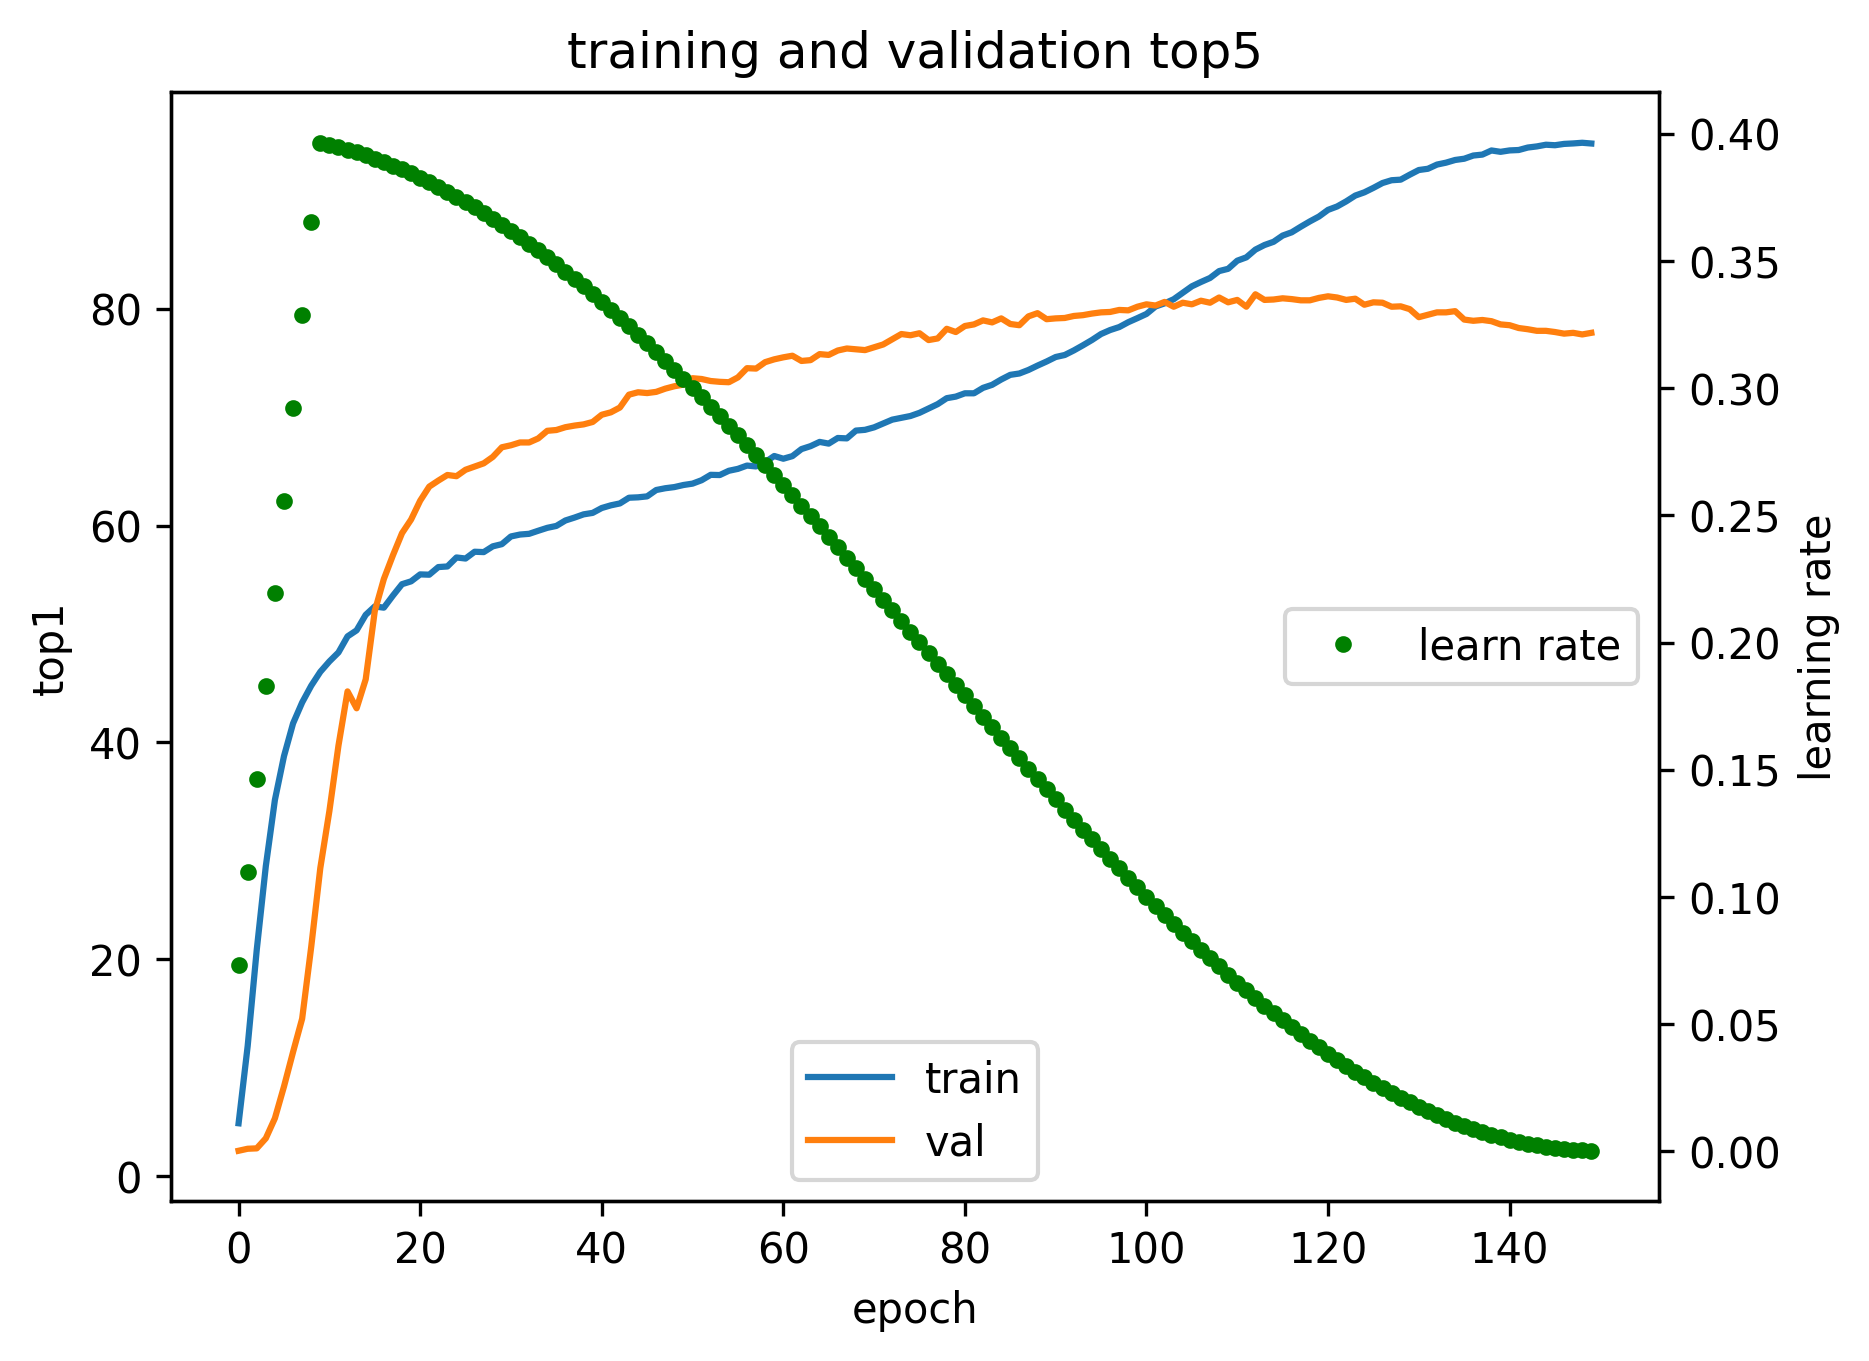
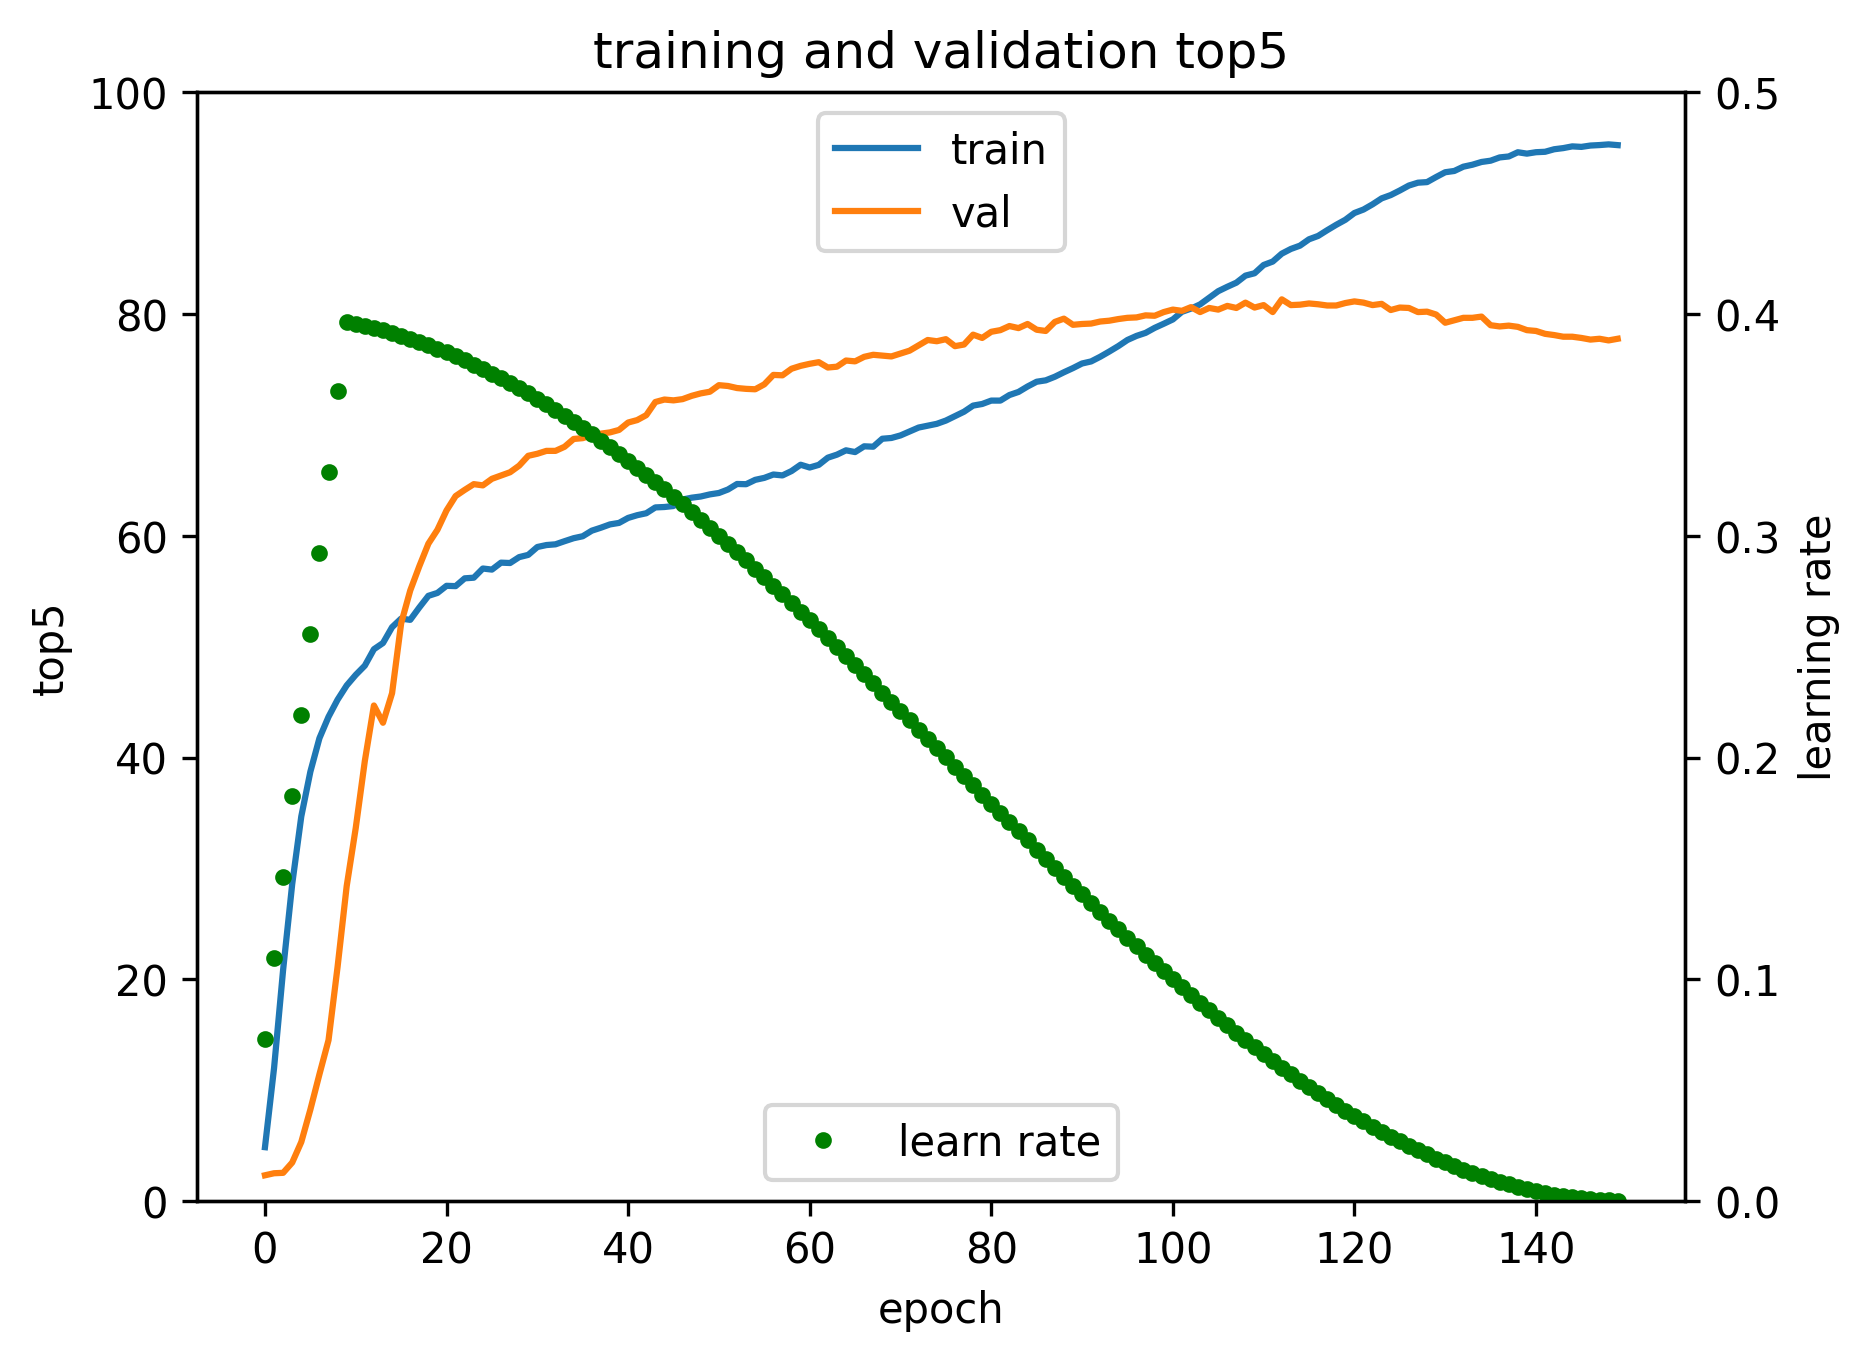
updated launch, best ouputs and summary plot code

diff --git a/utils/summary_plots.py b/utils/summary_plots.py
@@ -3,6 +3,7 @@
 import os
 import numpy as np
 import matplotlib.pyplot as plt
+import sys
 
 class SummaryPlots(object):
     """
@@ -84,12 +85,15 @@ class SummaryPlots(object):
         ax.plot(val[:,0], val[:,1], label="val") # epoch vs val loss 
         ax.set_xlabel("epoch")
         ax.set_ylabel("loss")
+        ax.set_ylim([0, 8.0])
         ax.set_title("training and validation loss")
-        ax.legend(loc="lower center")
+        ax.legend(loc="upper center")
+        
         ax2 = ax.twinx()
         ax2.plot(train[:,0], train[:,4], '.g', label="learn rate") # epoch vs lr 
         ax2.set_ylabel("learning rate")
-        ax2.legend(loc='center right')
+        ax2.legend(loc='lower center')
+        ax2.set_ylim([0.0, 0.5])
         fig.savefig(output_path, format='png', dpi=300, bbox_inches='tight')
     
     def plot_top1_train_val(self, train, val):
@@ -100,12 +104,15 @@ class SummaryPlots(object):
         ax.plot(val[:,0], val[:,2], label="val") # epoch vs val loss 
         ax.set_xlabel("epoch")
         ax.set_ylabel("top1")
+        ax.set_ylim([0, 100])
         ax.set_title("training and validation top1")
-        ax.legend(loc="lower center")
+        ax.legend(loc="upper center")
+        
         ax2 = ax.twinx()
         ax2.plot(train[:,0], train[:,4], '.g', label="learn rate") # epoch vs lr 
         ax2.set_ylabel("learning rate")
-        ax2.legend(loc='center right')
+        ax2.legend(loc='lower center')
+        ax2.set_ylim([0.0, 0.5])        
         fig.savefig(output_path, format='png', dpi=300, bbox_inches='tight')            
         
     
@@ -116,13 +123,15 @@ class SummaryPlots(object):
         ax.plot(train[:,0], train[:,3], label="train") # epoch vs train loss
         ax.plot(val[:,0], val[:,3], label="val") # epoch vs val loss 
         ax.set_xlabel("epoch")
-        ax.set_ylabel("top1")
+        ax.set_ylabel("top5")
+        ax.set_ylim([0, 100])        
         ax.set_title("training and validation top5")
-        ax.legend(loc="lower center")
+        ax.legend(loc="upper center")
         ax2 = ax.twinx()
         ax2.plot(train[:,0], train[:,4], '.g', label="learn rate") # epoch vs lr 
         ax2.set_ylabel("learning rate")
-        ax2.legend(loc='center right')
+        ax2.legend(loc='lower center')
+        ax2.set_ylim([0.0, 0.5])         
         fig.savefig(output_path, format='png', dpi=300, bbox_inches='tight')          
            
         
@@ -133,8 +142,8 @@ class SummaryPlots(object):
         
 
 ## Test 
-def main():
-    #input_run_file = "results\AU_results_resnet_tiny_correct_class.txt"
+def main(argv):
+    input_run_file = "results\AU_results_resnet_tiny_correct_class.txt"
     #input_run_file = "results\AU_results_resnet_tiny_correct_class_depth18.txt"
     #input_run_file = "results\AU_results_resnet_tiny_correct_class_depth18_cyclic.txt"
     #input_run_file = "results\AU_results_resnet_tiny_correct_class_depth18_augment.txt"
@@ -143,7 +152,15 @@ def main():
     #input_run_file = "results\AU_results_resnet_tiny_correct_class_depth50_augment4_cutout.txt"
     #input_run_file = "results\AU_results_resnet_tiny_correct_class_depth50_augment4_cutout_300.txt"
     #input_run_file = "results\AU_results_resnet_tiny_correct_class_depth50_augment4_cutout_wd1.txt"
-    input_run_file = "results\AU_results_resnet_tiny_correct_class_depth50_augment4_cutout_wd2.txt"
+    #input_run_file = "results\AU_results_resnet_tiny_correct_class_depth50_augment4_cutout_wd2.txt"
+    #input_run_file = "results\AU_results_resnet_tiny_correct_class_depth50_lr0pt1.txt"
+    #input_run_file = "results\AU_results_resnet_tiny_correct_class_depth50_lr0pt1-2.txt"
+    
+    if len(argv) < 1: 
+        input_run_file = input_run_file        
+    else:
+        input_run_file = argv[0]
+        
     plots = SummaryPlots(input_run_file)
     train, val, valema = plots.gen_loss_top1_top5()
     if len(train) == 0:
@@ -152,4 +169,4 @@ def main():
         plots.gen_plots(train, valema)
 
 if __name__ == "__main__":
-    main()
+    main(sys.argv[1:])
